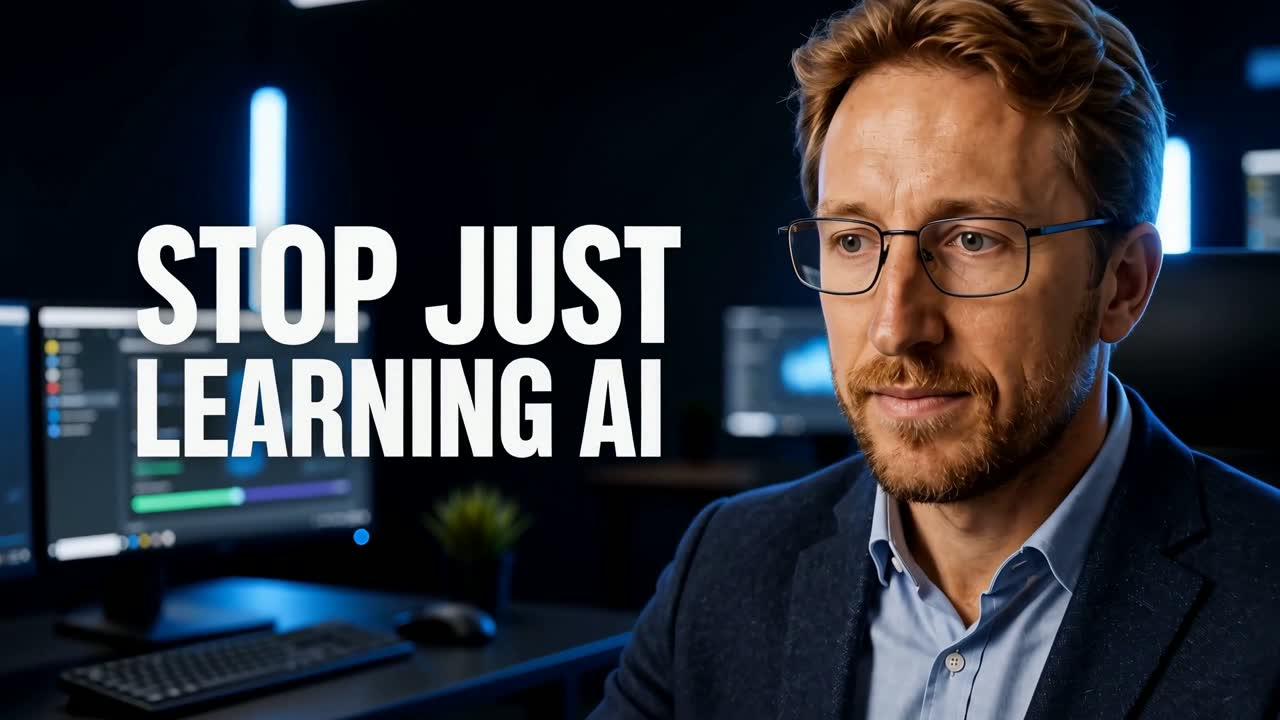
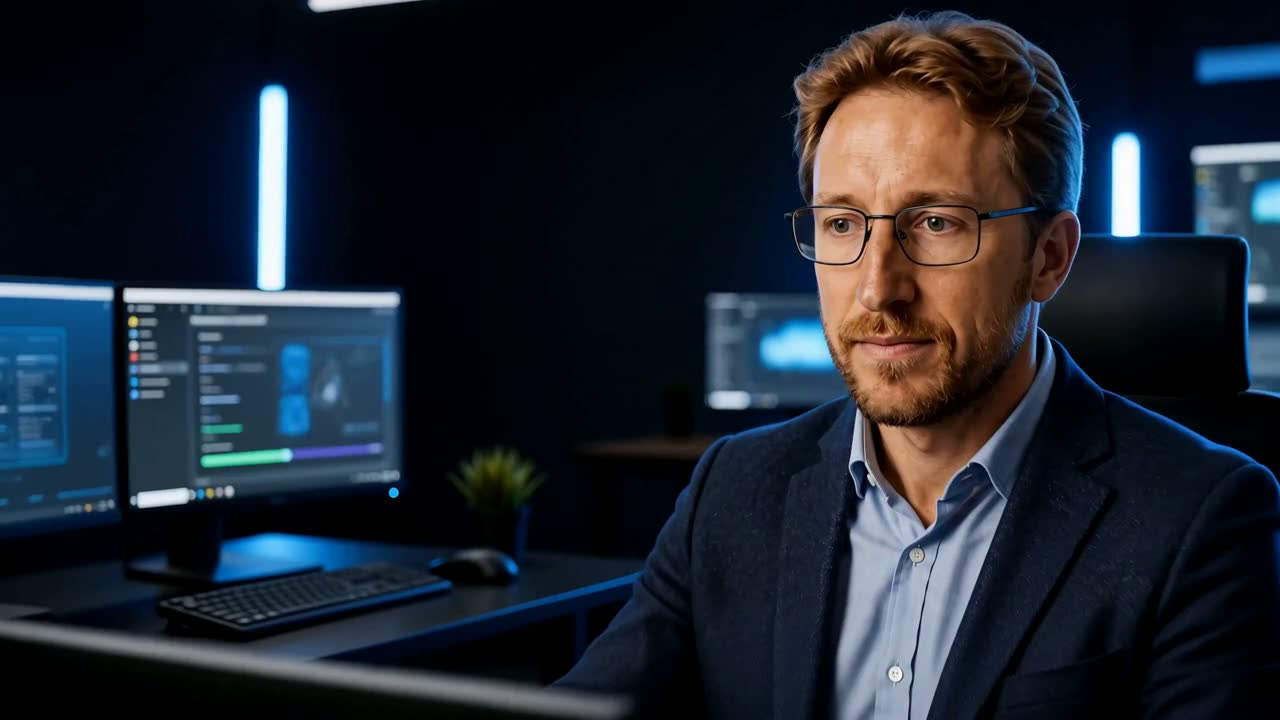
feat: sharpen hero copy, play control, and trust row
Adapt proven VSL hero patterns to the existing design system. No palette,
type, or layout-direction changes.

Copy:
- The default eyebrow now qualifies the reader instead of stating a
  credential. The agency, business, and creator angles already did this,
  so default was the odd one out; the member count already appears in the
  trust row and proof strip.
- Subheads carry three emphasized promises so the line can be skimmed
  before it is read.
- The CTA note becomes a risk reversal (cancel anytime) rather than a
  description of the offer. This matches the existing FAQ answer.

Video:
- Move the play control to the center as a circular button, and move the
  runtime from the rail above the video into a badge inside the frame.
  The rail is no longer needed and has been removed.
- Regenerate the poster from frame 0, before the title animates in. The
  previous poster's baked-in text collided with a centered control and
  duplicated the H1 directly above it.

Trust row:
- Replace the loose text line with an anchored cluster of the three facts
  already claimed on the page.

The play button is the only circle in an otherwise zero-radius system, as
a deliberate exception for the universal play affordance.

Tests pass and the production build succeeds. Playback, both themes at
1440x900, mobile at 390px, keyboard focus and reduced motion verified;
the runtime contrast audit reports zero failures in both themes.
[…]

diff --git a/src/styles.css b/src/styles.css
@@ -50,7 +50,7 @@ section[id] { scroll-margin-top: 24px; }
 .theme-toggle:hover { border-color: var(--orange); }
 .theme-toggle:focus-visible { outline: 3px solid var(--orange); outline-offset: 4px; }
 
-.hero { display: grid; justify-items: center; text-align: center; padding-block: 32px 60px; }
+.hero { display: grid; justify-items: center; text-align: center; padding-block: 26px 56px; }
 .eyebrow { display: flex; align-items: center; gap: 9px; margin: 0 0 24px; color: var(--accent); font: 500 10px/1.4 'DM Mono', monospace; letter-spacing: .05em; text-transform: uppercase; }
 .eyebrow > span { width: 19px; height: 2px; background: currentColor; }
 h1, h2, h3, p { margin-top: 0; }
@@ -72,23 +72,24 @@ h1 em, h2 em { color: var(--accent); font-style: normal; }
 .hero .eyebrow { justify-content: center; margin-bottom: 16px; }
 .hero h1 { max-width: 100%; margin-bottom: 14px; font-size: clamp(36px, 3.9vw, 52px); line-height: 1.0; }
 .hero .hero-text { max-width: 640px; margin: 0 auto 24px; font-size: 17px; }
-.hero .hero-actions { justify-content: center; align-items: center; gap: 10px 18px; margin-top: 22px; }
-.hero .trust-line { justify-content: center; margin-top: 24px; }
+.hero .hero-actions { justify-content: center; align-items: center; gap: 10px 18px; margin-top: 20px; }
+.hero .hero-text strong { color: var(--navy); font-weight: 700; }
+.button-hero { min-height: 62px; padding: 0 30px; gap: 34px; font-size: 15px; }
+.hero-trust { display: flex; flex-wrap: wrap; justify-content: center; gap: 10px 28px; margin: 20px 0 0; padding: 0; list-style: none; color: var(--muted); font: 11px/1.4 'DM Mono', monospace; text-transform: uppercase; }
+.hero-trust li { display: inline-flex; align-items: center; gap: 8px; }
+.hero-trust i { color: var(--accent); font-style: normal; }
+.hero-trust strong { color: var(--navy); font-weight: 500; }
 .hero-tour { min-height: 44px; display: inline-flex; align-items: center; gap: 8px; padding: 0 6px; color: var(--muted); font: 500 12px 'DM Mono', monospace; letter-spacing: .02em; border-bottom: 1px solid transparent; }
 .hero-tour:hover { color: var(--accent); border-bottom-color: var(--accent); }
 
-.vsl { width: min(100%, 790px); }
-.vsl-rail { display: flex; justify-content: space-between; align-items: center; gap: 20px; margin: 0 0 9px; color: var(--muted); font: 500 10px/1.4 'DM Mono', monospace; letter-spacing: .06em; text-transform: uppercase; }
-.vsl-rail strong { color: var(--accent); font-weight: 500; }
-.vsl-runtime { flex: 0 0 auto; color: var(--navy); }
+.vsl { width: min(100%, 726px); }
 .vsl-screen { position: relative; border: 2px solid var(--orange); box-shadow: 16px 16px 0 var(--sky); background: #0b1120; }
 .vsl-screen video { display: block; width: 100%; height: auto; aspect-ratio: 16 / 9; object-fit: cover; }
-.vsl-play { position: absolute; inset: 0; width: 100%; display: flex; align-items: flex-end; gap: 16px; padding: 22px; border: 0; background: linear-gradient(180deg, #0b112000 46%, #0b1120e6 100%); color: #ffffff; text-align: left; cursor: pointer; }
-.vsl-play-key { flex: 0 0 auto; display: grid; place-items: center; width: 68px; height: 68px; background: var(--orange); color: #101624; font-size: 25px; line-height: 1; box-shadow: 8px 8px 0 #0b1120; transition: transform .16s ease, box-shadow .16s ease; }
-.vsl-play:hover .vsl-play-key { transform: translate(3px, 3px); box-shadow: 4px 4px 0 #0b1120; }
-.vsl-play:active .vsl-play-key { transform: translate(8px, 8px); box-shadow: 0 0 0 #0b1120; }
-.vsl-play-label { display: grid; gap: 5px; padding-bottom: 6px; font: 700 15px/1.25 'Instrument Sans', sans-serif; letter-spacing: -.01em; text-transform: uppercase; }
-.vsl-play-label small { color: #cbd6f0; font: 500 10px/1.4 'DM Mono', monospace; letter-spacing: .07em; text-transform: uppercase; }
+.vsl-play { position: absolute; inset: 0; width: 100%; display: grid; place-items: center; padding: 0; border: 0; background: radial-gradient(circle at 50% 50%, #0b112073 0%, #0b112012 46%, #0b112000 62%); cursor: pointer; }
+.vsl-play-key { display: grid; place-items: center; width: 88px; height: 88px; border-radius: 50%; background: var(--orange); color: #101624; font-size: 27px; line-height: 1; padding-left: 5px; box-shadow: 0 0 0 10px #ff684636, 0 10px 34px #0b1120a6; transition: transform .18s ease, box-shadow .18s ease; }
+.vsl-play:hover .vsl-play-key { transform: scale(1.06); box-shadow: 0 0 0 15px #ff684636, 0 12px 38px #0b1120bf; }
+.vsl-play:active .vsl-play-key { transform: scale(.97); }
+.vsl-runtime { position: absolute; right: 12px; bottom: 12px; padding: 5px 9px; color: #ffffff; background: #0b1120d9; font: 500 10px/1 'DM Mono', monospace; letter-spacing: .06em; font-variant-numeric: tabular-nums; }
 .vsl-play:focus-visible { outline: 3px solid var(--orange); outline-offset: 5px; }
 
 .proof-strip { border-block: 1px solid var(--line); background: var(--white); }
@@ -284,8 +285,9 @@ h1 em, h2 em { color: var(--accent); font-style: normal; }
   .shell { width: min(100% - 36px, 560px); }
   .nav { height: 70px; gap: 10px; }.nav .brand { min-width: 0; white-space: nowrap; }.nav-links { display: none; }.nav-actions { flex: 0 0 auto; gap: 8px; }.nav .theme-toggle { width: 58px; }.nav-pricing { padding-inline: 10px; font-size: 10px; }
   .hero { padding-block: 38px 52px; }.hero .hero-text { font-size: 16px; margin-bottom: 24px; }
-  .vsl-screen { box-shadow: 8px 8px 0 var(--sky); }.vsl-play-key { width: 54px; height: 54px; font-size: 17px; box-shadow: 5px 5px 0 #0b1120; }.vsl-play { gap: 13px; padding: 15px; }.vsl-play-label { font-size: 13px; }
-  .vsl-rail { font-size: 9px; letter-spacing: .04em; }
+  .vsl-screen { box-shadow: 8px 8px 0 var(--sky); }
+  .vsl-play-key { width: 62px; height: 62px; font-size: 19px; box-shadow: 0 0 0 7px #ff684636, 0 8px 24px #0b1120a6; }
+  .vsl-play:hover .vsl-play-key { box-shadow: 0 0 0 10px #ff684636, 0 9px 26px #0b1120bf; }
   .button { width: 100%; }.trust-line { display: grid; grid-template-columns: 1fr 1fr; }
   .ticker div { justify-content: flex-start; }
   .proof-strip > div { grid-template-columns: 1fr 1fr; }.proof-strip > div > * { min-height: 92px; padding: 17px; border-bottom: 1px solid var(--line); }.proof-strip > div > div:nth-child(odd) { border-left: 1px solid var(--line); }.proof-strip a { text-align: center; }

diff --git a/src/main.jsx b/src/main.jsx
@@ -9,10 +9,10 @@ import './styles.css';
 const skoolPlansUrl = 'https://www.skool.com/ai-automation-station-7346/plans?src=join';
 const skoolCommunityUrl = 'https://www.skool.com/ai-automation-station-7346';
 const campaignMessages = {
-  agency: { eyebrow: 'For AI freelancers and agency builders', headline: <>Build an AI system you can <em>sell to clients.</em></>, text: 'A 30-day path from useful workflow to client-ready offer, with templates and support when you get stuck.' },
-  business: { eyebrow: 'For business owners buried in repetitive work', headline: <>Automate one expensive <em>workflow in 30 days.</em></>, text: 'Turn repetitive work into a working AI system with guided training, ready-to-use templates, and weekly support.' },
-  creator: { eyebrow: 'For creators ready to turn AI into output', headline: <>Build an AI system that <em>creates leverage.</em></>, text: 'Produce more with practical workflows, package what works, and build a system you can use or sell.' },
-  default: { eyebrow: 'Private Skool community · 3,000+ members', headline: <>Build an AI system you can <em>use or sell</em> in 30 days.</>, text: 'Guided training, templates, and weekly live coaching in a private Skool community.' },
+  agency: { eyebrow: 'For AI freelancers and agency builders', headline: <>Build an AI system you can <em>sell to clients.</em></>, text: <>Follow <strong>step-by-step builds</strong>, adapt <strong>client-ready templates</strong>, and bring blockers to <strong>weekly live coaching</strong> until the offer is ready to sell.</> },
+  business: { eyebrow: 'For business owners buried in repetitive work', headline: <>Automate one expensive <em>workflow in 30 days.</em></>, text: <>Follow <strong>step-by-step builds</strong>, adapt <strong>ready-to-use templates</strong>, and bring blockers to <strong>weekly live coaching</strong> until the work runs itself.</> },
+  creator: { eyebrow: 'For creators ready to turn AI into output', headline: <>Build an AI system that <em>creates leverage.</em></>, text: <>Follow <strong>step-by-step builds</strong>, adapt <strong>ready-to-use templates</strong>, and bring blockers to <strong>weekly live coaching</strong> until you can produce on repeat.</> },
+  default: { eyebrow: 'For freelancers, operators, and business owners', headline: <>Build an AI system you can <em>use or sell</em> in 30 days.</>, text: <>Follow <strong>step-by-step builds</strong>, adapt <strong>ready-to-use templates</strong>, and bring blockers to <strong>weekly live coaching</strong>, inside a private Skool community.</> },
 };
 
 const googleEventNames = {
@@ -129,10 +129,6 @@ function HeroVideo() {
 
   return (
     <div className="vsl">
-      <p className="vsl-rail">
-        <span><strong>Watch first</strong> · what you actually build</span>
-        <span className="vsl-runtime">0:14</span>
-      </p>
       <div className="vsl-screen">
         <video
           ref={video}
@@ -149,9 +145,9 @@ function HeroVideo() {
           <source src="/hero-video.mp4" type="video/mp4" />
         </video>
         {!started && (
-          <button type="button" className="vsl-play" onClick={start}>
+          <button type="button" className="vsl-play" onClick={start} aria-label="Play the intro, 14 seconds, sound on">
             <span className="vsl-play-key" aria-hidden="true">&#9654;</span>
-            <span className="vsl-play-label">Play the intro<small>14 seconds · sound on</small></span>
+            <span className="vsl-runtime" aria-hidden="true">0:14</span>
           </button>
         )}
       </div>
@@ -268,11 +264,15 @@ function App() {
         </div>
         <HeroVideo />
         <div className="hero-actions">
-          <a className="button button-primary" href="#pricing" onClick={() => trackEvent('CTA Clicked', { button_text: 'See plans from $9', link_url: '#pricing', placement: 'hero', action: 'view_pricing', angle: campaign.angle })}>See plans from $9 <span>↓</span></a>
+          <a className="button button-primary button-hero" href="#pricing" onClick={() => trackEvent('CTA Clicked', { button_text: 'See plans from $9', link_url: '#pricing', placement: 'hero', action: 'view_pricing', angle: campaign.angle })}>See plans from $9 <span>↓</span></a>
           <a className="hero-tour" href="#tour" onClick={() => trackEvent('CTA Clicked', { button_text: 'Take the 60-second tour', link_url: '#tour', placement: 'hero', action: 'view_tour', angle: campaign.angle })}>Or take the 60-second tour <span>→</span></a>
         </div>
-        <p className="cta-note">Monthly plans · Hosted on Skool · Start at your level</p>
-        <div className="trust-line"><span><strong>3,000+</strong> members</span><span><strong>600+</strong> curated tools</span><span><strong>Weekly</strong> live coaching</span></div>
+        <p className="cta-note">Plans from $9 a month · Cancel anytime from your Skool account</p>
+        <ul className="hero-trust">
+          <li><i aria-hidden="true">✓</i><span><strong>3,000+</strong> members building alongside you</span></li>
+          <li><i aria-hidden="true">✓</i><span><strong>600+</strong> curated tools and software deals</span></li>
+          <li><i aria-hidden="true">✓</i><span><strong>Weekly</strong> live Q&amp;A and coaching</span></li>
+        </ul>
       </section>
 
       <section className="proof-strip" aria-label="Membership proof"><div className="shell"><div><strong>3,000+</strong><span>builders in the community</span></div><div><strong>6,400+</strong><span>N8N templates in VIP</span></div><div><strong>Weekly</strong><span>live Q&amp;A and coaching</span></div><a href={outboundUrl(skoolCommunityUrl, campaign)} target="_blank" rel="noreferrer" onClick={() => trackSkoolLead('proof_strip', 'Verify on Skool')}>Verify on Skool ↗</a></div></section>
